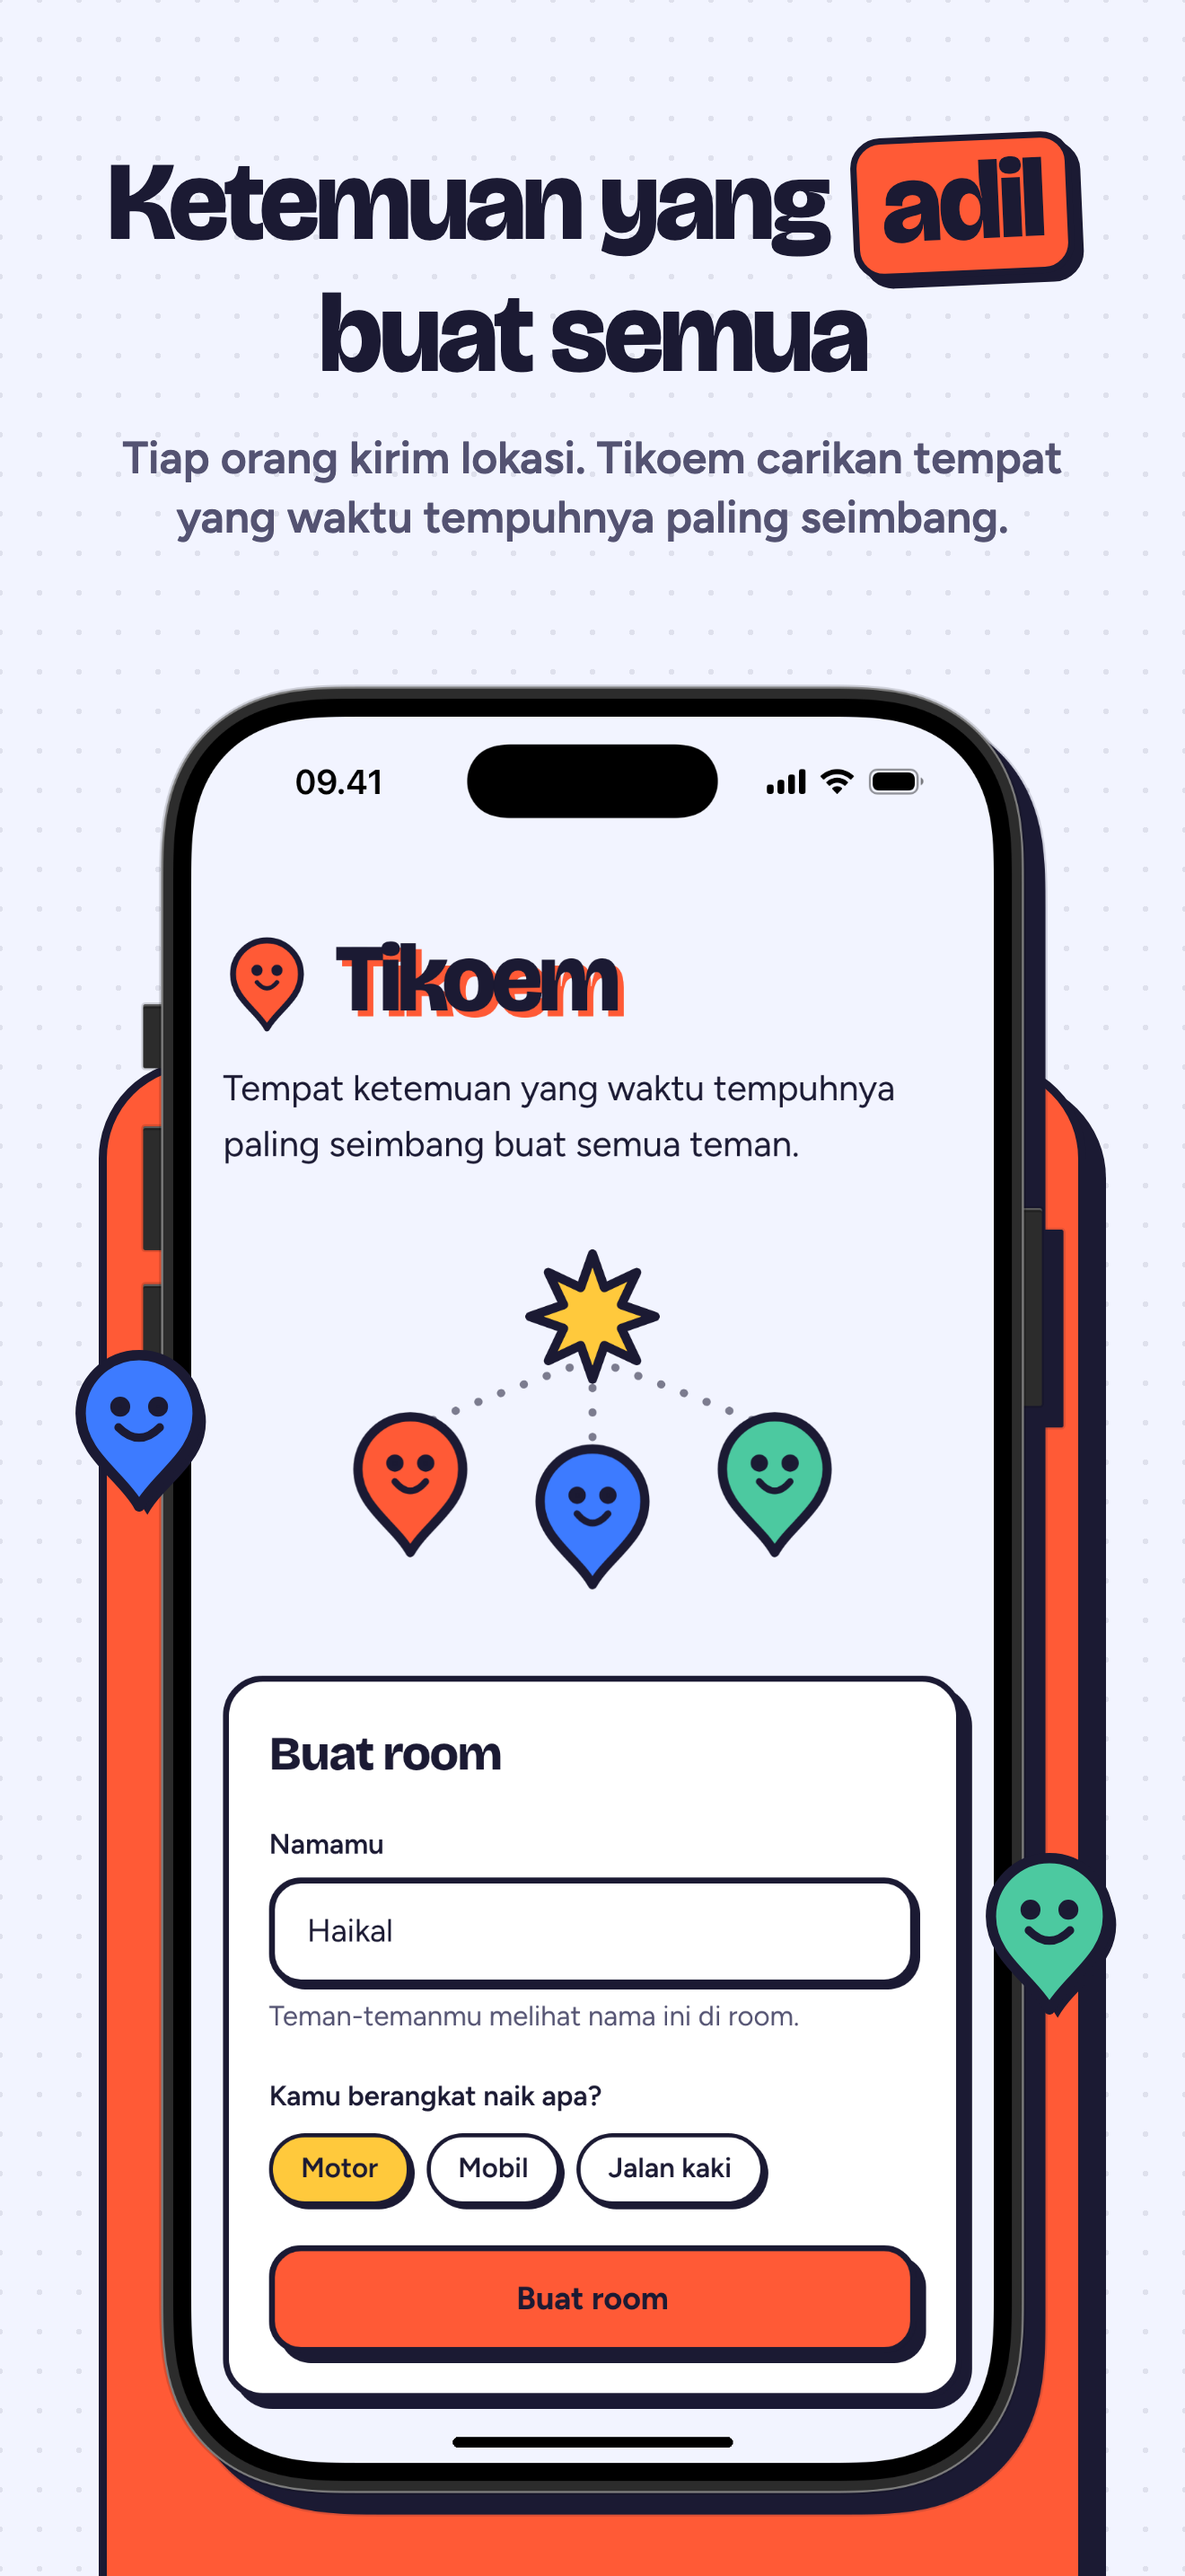
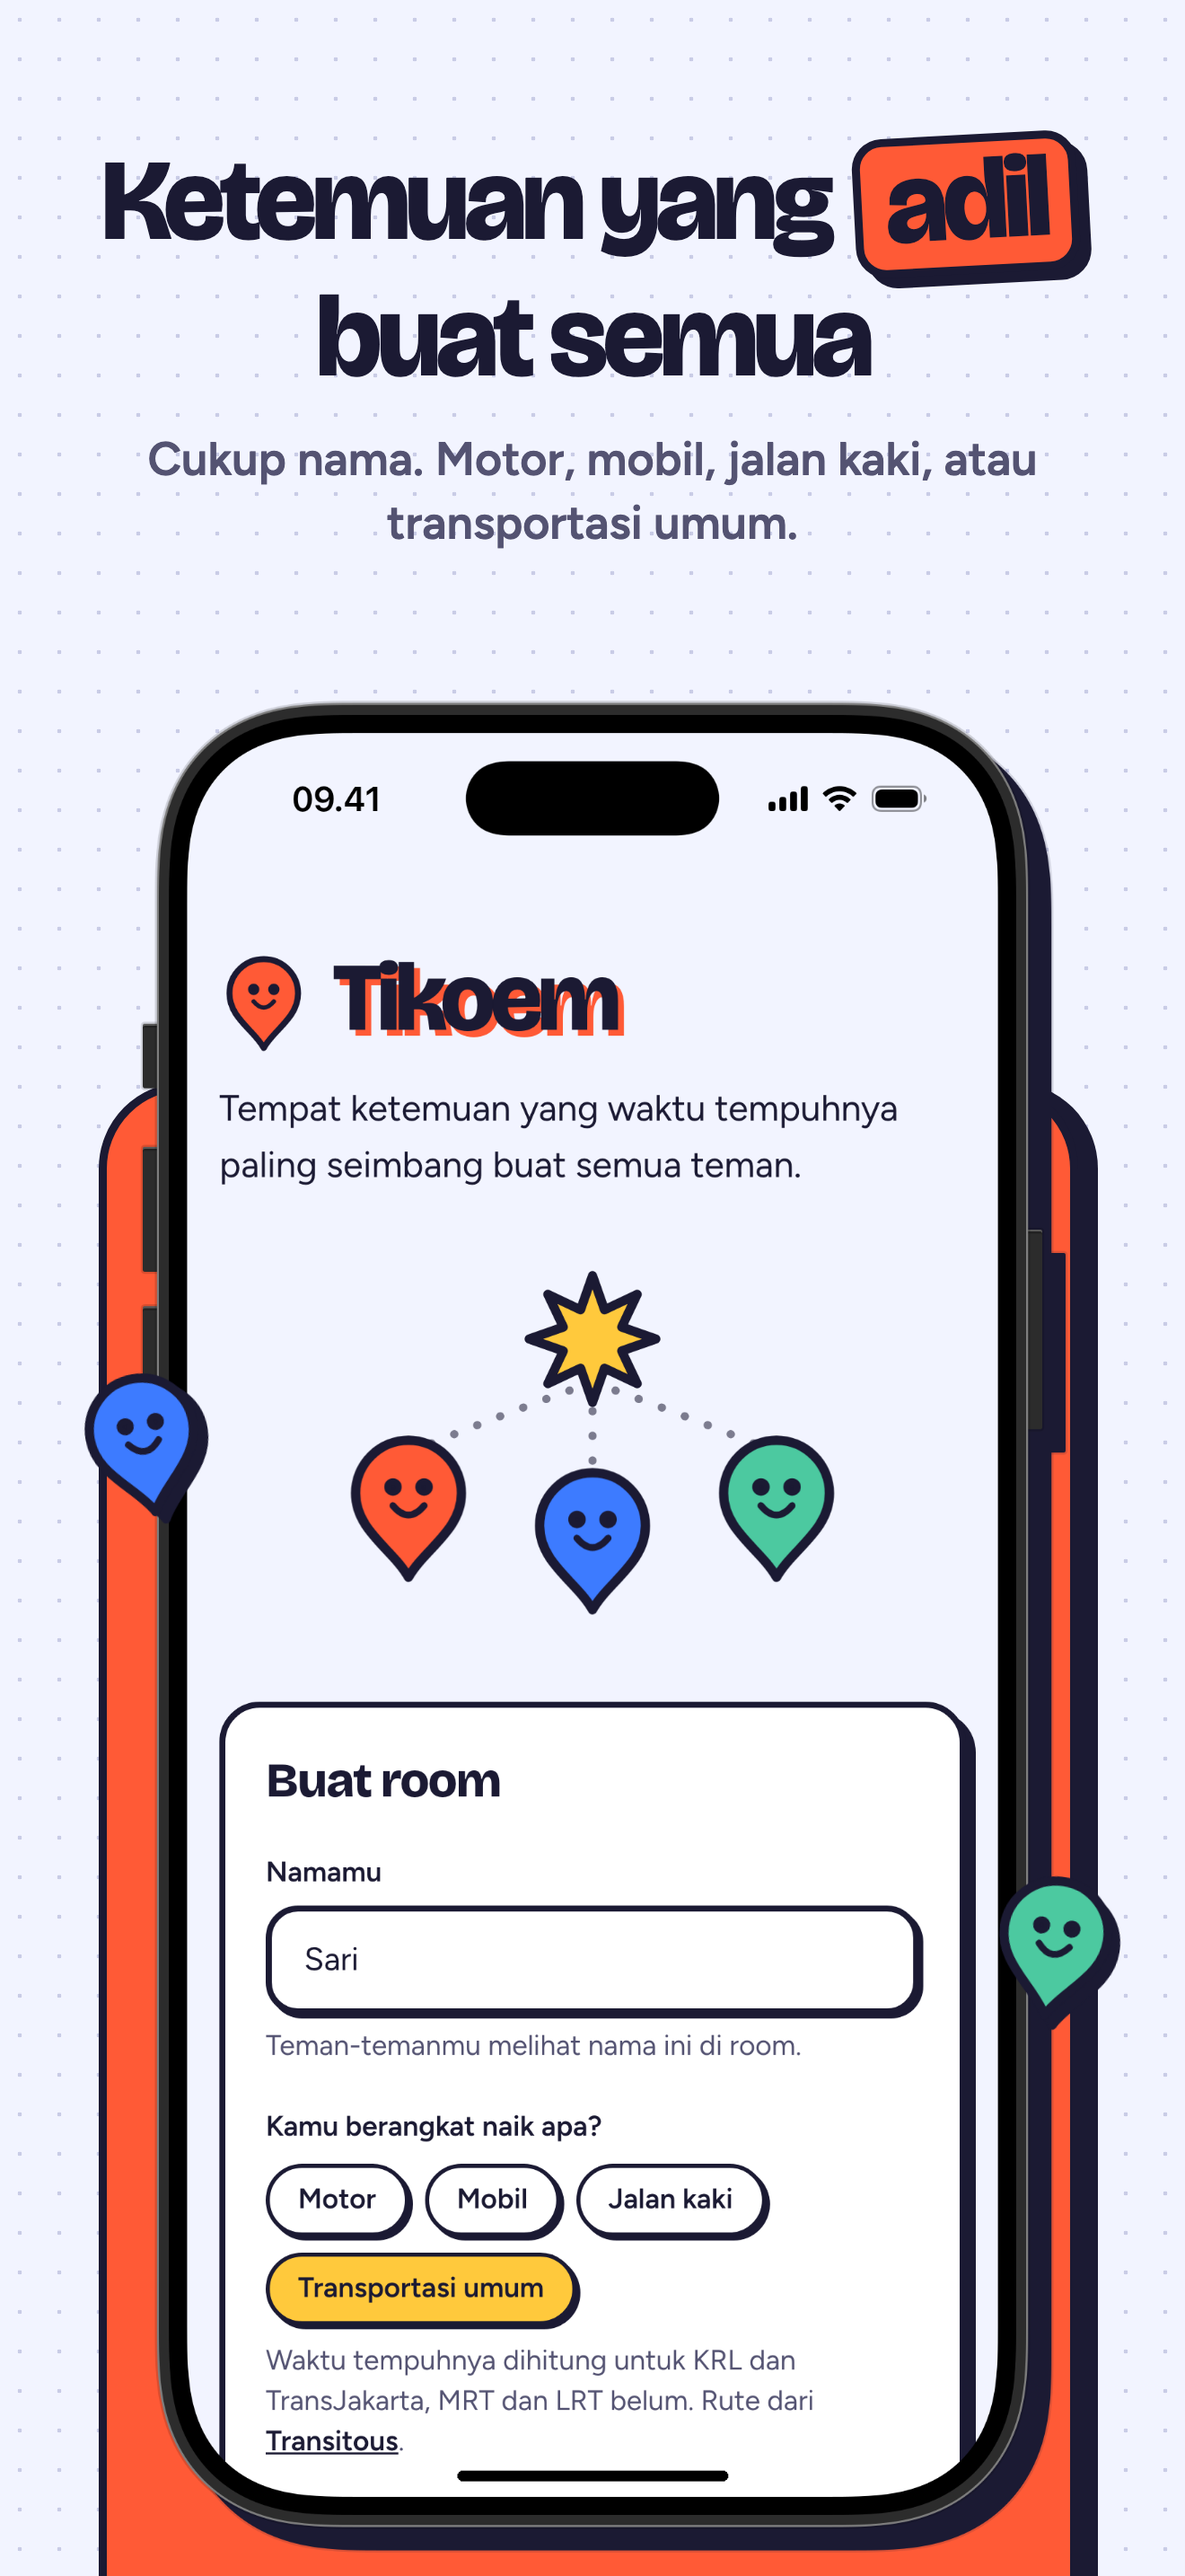
docs: panel promo v2 dengan transportasi umum
Empat panel promo di README disusun ulang dari tangkapan layar
production v2 (#77): room uji Haikal di Kemang, Sari naik transportasi
umum dari Manggarai, dan Umar di Kelapa Gading. Copy judul, subjudul,
dan warna chip mengikuti tabel di #77, dan alt text di README ikut
diperbarui.

Panel di #40 dibuat sekali jalan tanpa skrip. Sekarang ada
scripts/buat-promo.mjs (npm run promo) yang menyusun latar kertas peta,
judul Bricolage dengan chip stiker, kartu berwarna, dan pin hiasan dari
folder tangkapan berbingkai, supaya panel bisa dibuat ulang setiap
layarnya berubah. Caranya dicatat di docs/pengembangan.md.

Panel 2 masih memakai tangkapan dengan penanda bertumpuk, dan diganti
setelah perbaikan penanda (#80) masuk dan Haikal memotret ulang.

diff --git a/docs/pengembangan.md b/docs/pengembangan.md
@@ -132,7 +132,10 @@ Penyiapan sekali saja:
   2. Jalankan `archify finalize architecture docs/arsitektur.archify.json .archify/arsitektur.html --repo-root . --quality showcase`.
   3. Salin `.archify/arsitektur.html` ke `docs/arsitektur.html`.
   4. Ekspor PNG terang dan gelap dari tombol Export ke `docs/gambar/arsitektur-terang.png` dan `arsitektur-gelap.png`.
-- **Gambar promo** (`docs/gambar/promo-*.png`, 1320×2868 seperti screenshot App Store) memakai layar production asli dengan bingkai iPhone 17 dari Simulator Xcode. Ganti kalau tampilan layarnya berubah.
+- **Gambar promo** (`docs/gambar/promo-*.png`, 1320×2868 seperti screenshot App Store) memakai layar production asli dengan bingkai iPhone 17 dari Simulator Xcode. Setelah tampilan layarnya berubah:
+  1. Potret layar production dengan room uji, lalu beri bingkai iPhone 17 berlatar transparan (1362×2724). Namai `bingkai-1-buat-room.png`, `bingkai-2-peta.png`, `bingkai-3-adil.png`, dan `bingkai-4-hasil.png`, lalu keluarkan semua peserta uji lewat `room.keluar`.
+  2. Jalankan `npm run promo -- <folder tangkapan>`. Judul, subjudul, warna kartu, dan pin hiasan tiap panel ada di [`scripts/buat-promo.mjs`](../scripts/buat-promo.mjs).
+  3. Perbarui alt text gambarnya di README kalau isi layarnya berubah.
 
 ## Kalau ada masalah
 

diff --git a/README.md b/README.md
@@ -21,10 +21,10 @@ PWA, tanpa akun.
 </div>
 
 <p align="center">
-  <img src="docs/gambar/promo-1-buat-room.png" width="24%" alt="Ketemuan yang adil buat semua: layar buat room" />
-  <img src="docs/gambar/promo-2-peta.png" width="24%" alt="Semua teman kelihatan di peta: pin tiap orang dan kandidat tempat" />
-  <img src="docs/gambar/promo-3-adil.png" width="24%" alt="Adil itu soal waktu, bukan jarak: kartu tempat dengan waktu tempuh tiap orang" />
-  <img src="docs/gambar/promo-4-hasil.png" width="24%" alt="Pilih bareng, kirim ke grup: kartu hasil" />
+  <img src="docs/gambar/promo-1-buat-room.png" width="24%" alt="Ketemuan yang adil buat semua: layar buat room dengan pilihan motor, mobil, jalan kaki, dan transportasi umum" />
+  <img src="docs/gambar/promo-2-peta.png" width="24%" alt="Semua teman kelihatan di peta: pin tiap orang, bintang tempat kumpul, dan penanda kereta untuk stasiun" />
+  <img src="docs/gambar/promo-3-adil.png" width="24%" alt="Adil itu soal waktu, bukan jarak: Halte Matraman Baru dengan waktu tempuh 17, 17, dan 15 menit" />
+  <img src="docs/gambar/promo-4-hasil.png" width="24%" alt="Tetapkan, lalu kirim ke grup: kartu Fix! Kopi Kenangan Matraman dengan tombol kirim ke grup WA" />
 </p>
 
 ## Cara pakai
